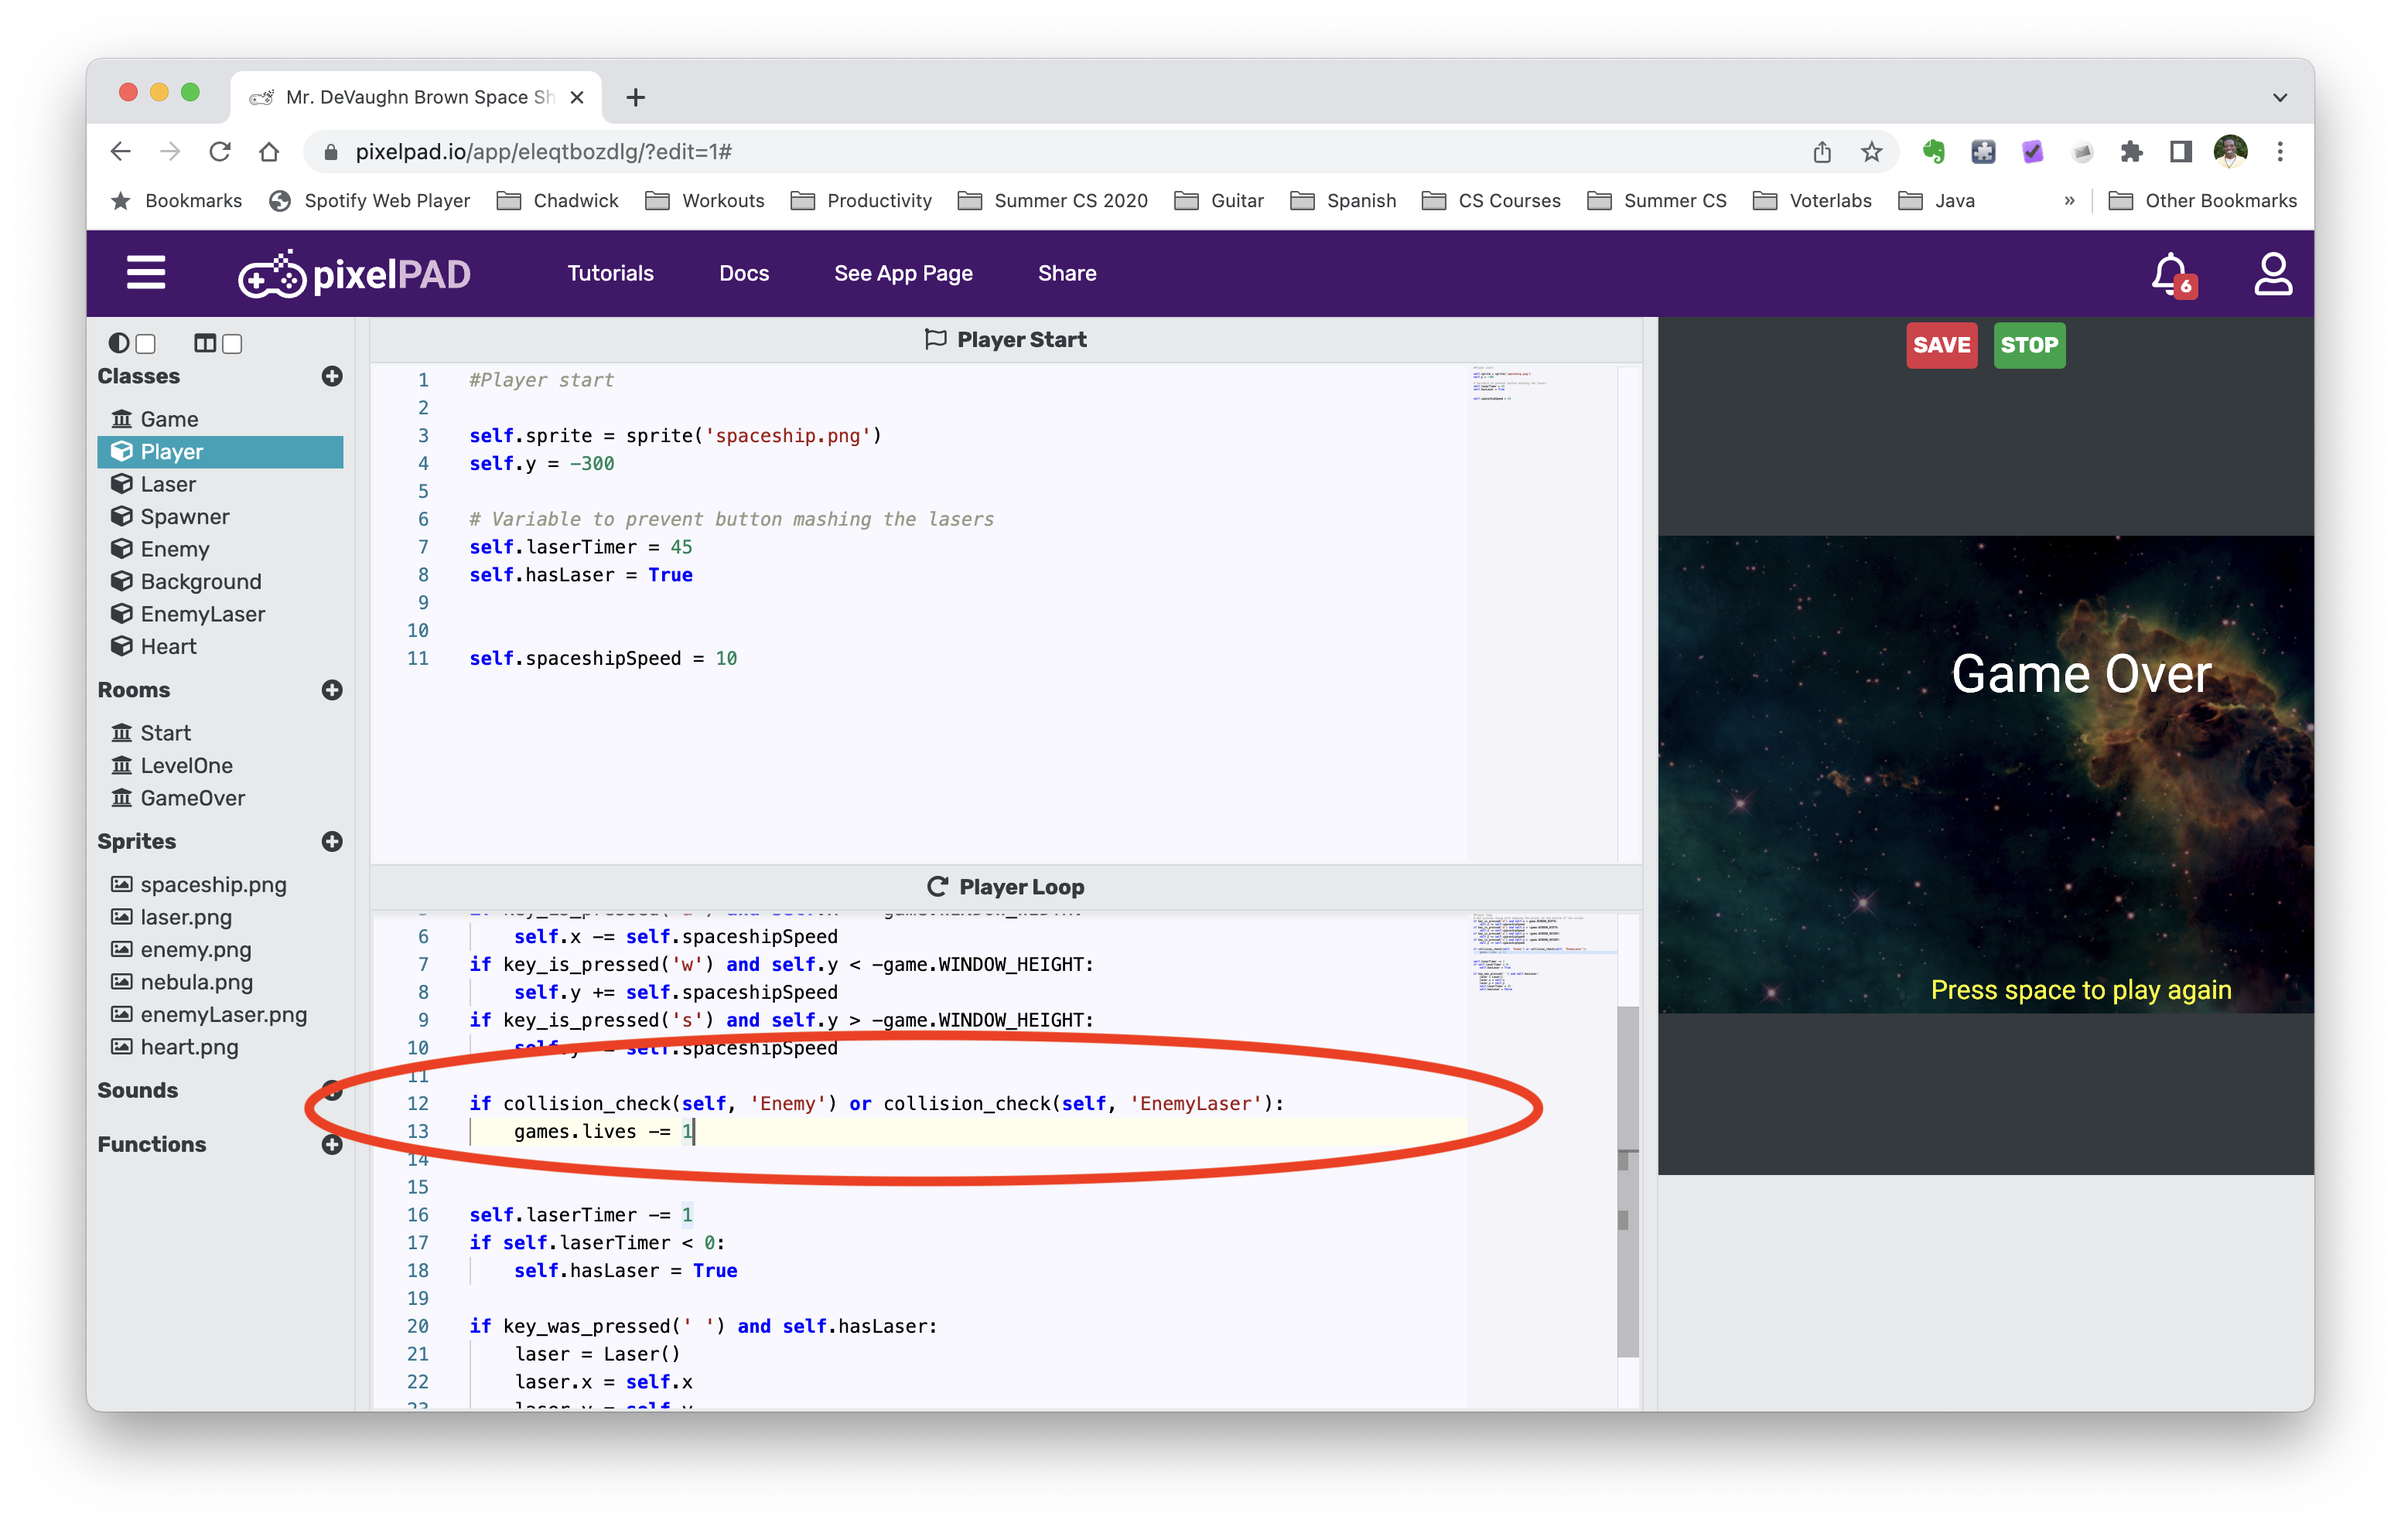
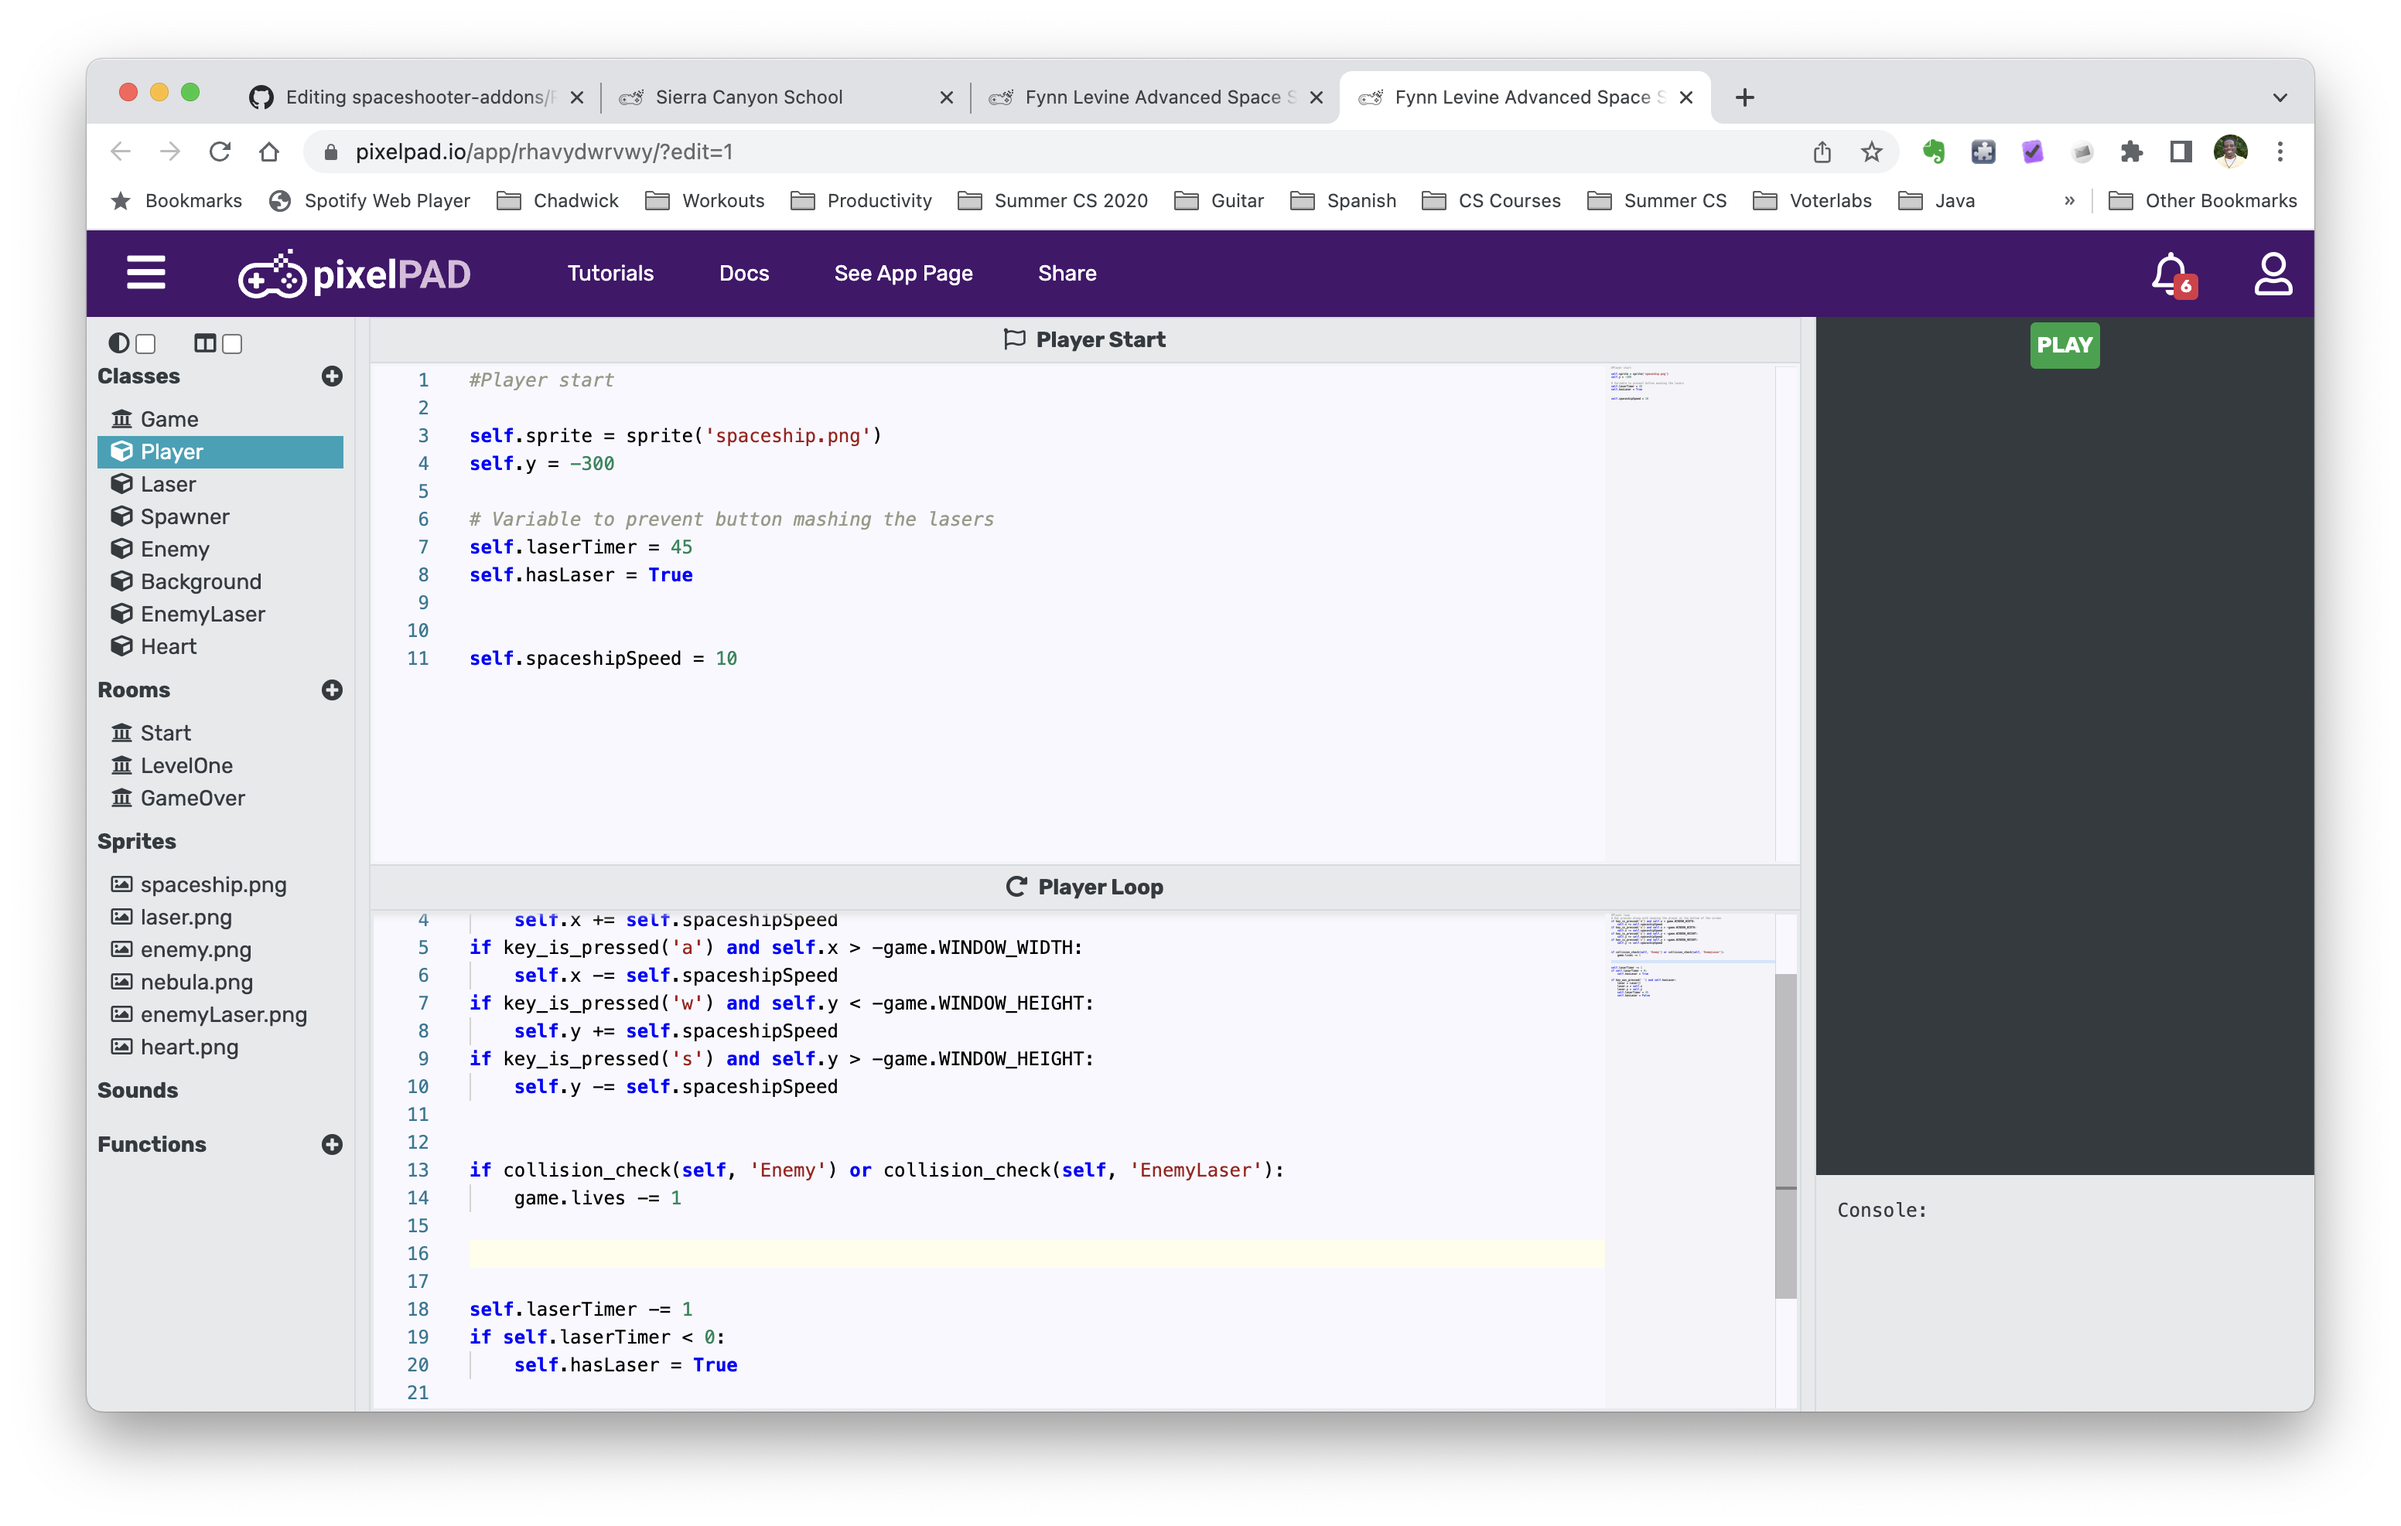
Finish final

diff --git a/README.md b/README.md
@@ -39,7 +39,7 @@ Click the + sign next to Classes
 
 ![Classes Image](./images/classes.png)
 
-Name it `enemyLaser`
+Name it `EnemyLaser`
 
 It should look like this:
 
@@ -60,6 +60,13 @@ It should look like this:
 You'll now see that the alien and the enemy go at the same speed and doesn't make the game more interesting. Let's fix the enemy laser speed.
 
 ![Enemy Laser Speed](./images/enemyLaserSpeed.png)
+
+### Step 6: Allow Player to Die From Enemy Lasers 
+
+Update the Player Loop Code to the following
+
+![Enemy Laser Player](./images/enemyLaserPlayer.png)
+
 
 ### Step 6: Make it so the player can destroy enemy lasers
 
@@ -92,5 +99,9 @@ Go to the `Player` loop code and update it to be the following:
 
 You will notice that if you play, that you still instantly die. This is because when the laser or enemy hits you, it keeps hitting you until you die. We need to set it up so that the laser or enemy can only hit you once. 
 
-Update your `LevelOne` loop code to the following:
+Update your `Player` loop code to the following:
+
+![Player Lives](./images/playerLivesFinal.png)
+
+
 
